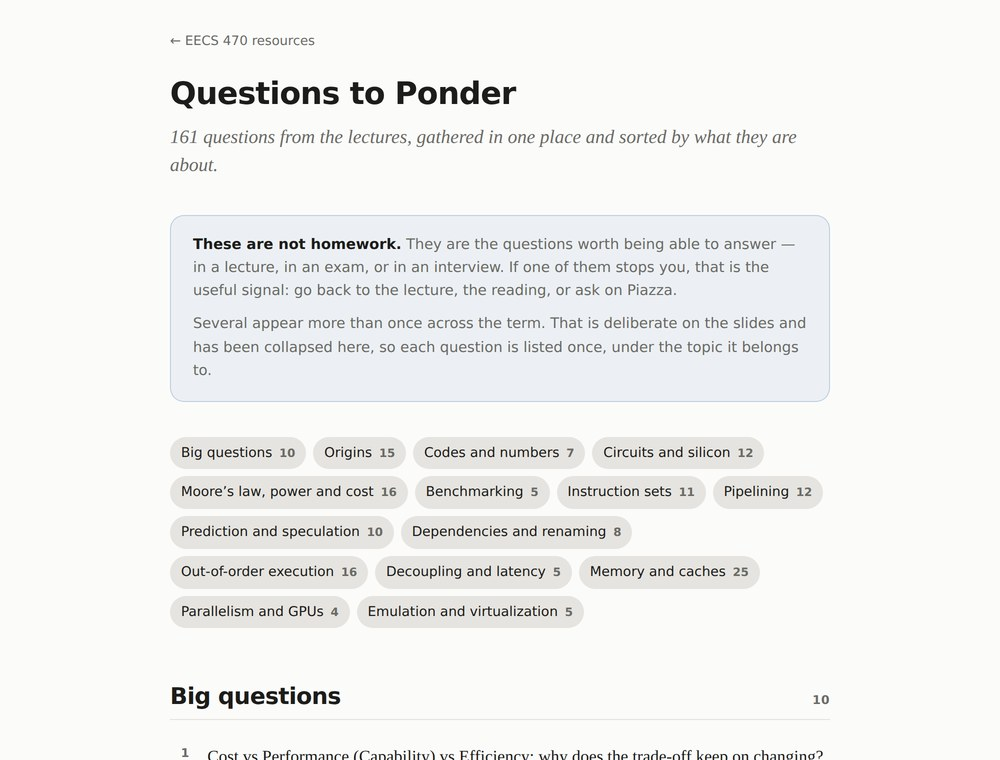
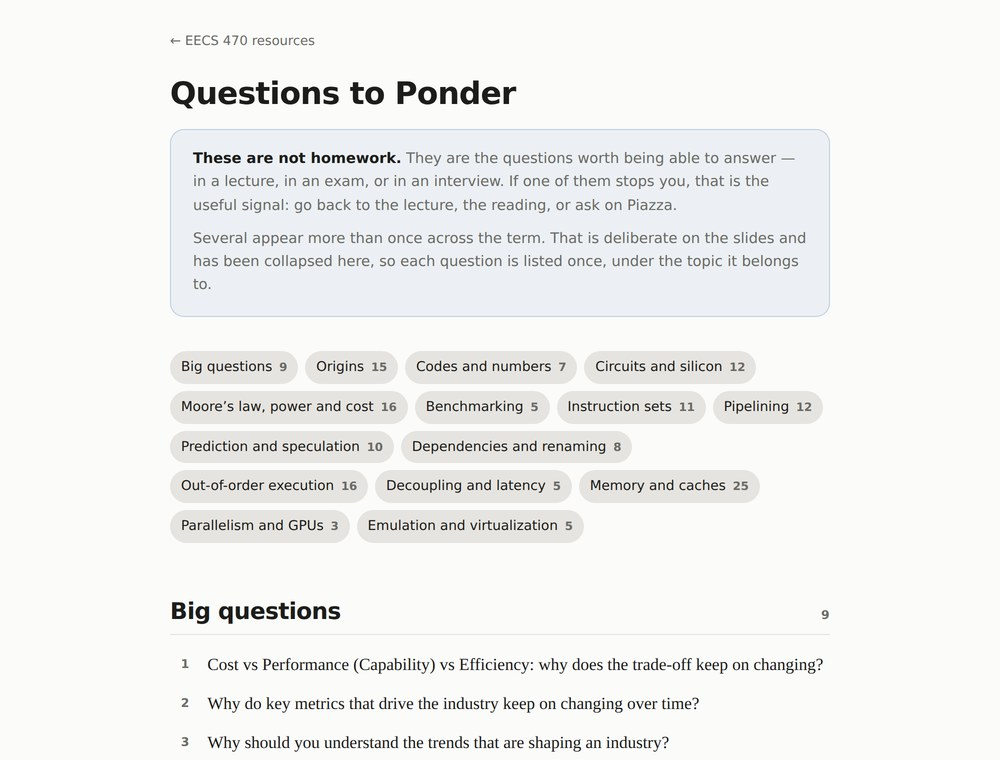
Update the site

Changed region(s): [[0.155, 0.1513, 0.837, 0.9382], [0.186, 0.9684, 0.837, 1.0], [0.806, 0.9079, 0.837, 0.9382]]

diff --git a/index.html b/index.html
@@ -909,15 +909,15 @@ a chip.</p></div></li></ul></section><section class="panel prose" data-tab="reso
   since covers are named <group>-<filename>. Covers live in Input/images/resources/ and are named
   <group>-<filename>.jpg, slugified (for a web link, <group>-<title>.jpg);
   run tools/make-covers.py to render them.
---><h2>Class</h2><ul class="gallery"><li><a class="shot tile" href="https://leccap.engin.umich.edu/leccap/site/ej9jgxg6gshpb5idj43">Lecture Recordings</a><div class="doc"><h3><a href="https://leccap.engin.umich.edu/leccap/site/ej9jgxg6gshpb5idj43">LECCAP</a></h3><p>CAEN’s excellent Lecture Recording service</p></div></li><li><a class="shot" href="questions-to-ponder.html"><img class="cover" width="1000" height="760" src="images/resources/class-questions-to-ponder.jpg" alt="" loading="lazy"></a><div class="doc"><h3><a href="questions-to-ponder.html">Questions to Ponder</a></h3><p>Every question raised in the lectures, gathered in one place and sorted by
-topic. Not homework — the questions worth being able to answer. If one of them
-stops you, that is the signal to go back to the lecture or the reading.</p></div></li><li><a class="shot" href="https://piazza.com/umich/fall2026/eecs470fa2026/home"><img class="cover logo" width="352" height="92" src="images/resources/class-piazza.png" alt="" loading="lazy"></a><div class="doc"><h3><a href="https://piazza.com/umich/fall2026/eecs470fa2026/home">Piazza</a></h3><p>Q&amp;A forum. Answer as many questions as you can!</p></div></li><li><a class="shot" href="https://app.infinisym.com"><img class="cover logo" width="200" height="200" src="images/resources/class-infinisym.png" alt="" loading="lazy"></a><div class="doc"><h3><a href="https://app.infinisym.com">infiniSym</a></h3><p>The check-in and polls app. It&rsquo;s a Progressive Web App (PWA): works in
+--><h2>Class</h2><ul class="gallery"><li><a class="shot tile" href="https://leccap.engin.umich.edu/leccap/site/ej9jgxg6gshpb5idj43">Lecture Recordings</a><div class="doc"><h3><a href="https://leccap.engin.umich.edu/leccap/site/ej9jgxg6gshpb5idj43">LECCAP</a></h3><p>CAEN’s excellent Lecture Recording service</p></div></li><li><a class="shot" href="https://piazza.com/umich/fall2026/eecs470fa2026/home"><img class="cover logo" width="352" height="92" src="images/resources/class-piazza.png" alt="" loading="lazy"></a><div class="doc"><h3><a href="https://piazza.com/umich/fall2026/eecs470fa2026/home">Piazza</a></h3><p>Q&amp;A forum. Answer as many questions as you can!</p></div></li><li><a class="shot" href="https://app.infinisym.com"><img class="cover logo" width="200" height="200" src="images/resources/class-infinisym.png" alt="" loading="lazy"></a><div class="doc"><h3><a href="https://app.infinisym.com">infiniSym</a></h3><p>The check-in and polls app. It&rsquo;s a Progressive Web App (PWA): works in
 the browser but if you download and save it to your mobile, you will not
 need to reauthenticate as much. Unfortunately Apple prefers apps in
 their App Store, so the experience isn&rsquo;t as smooth as it should be.</p></div></li><li><a class="shot" href="https://drive.google.com/drive/folders/1QmnMa3SE0dt_vrG9DG1hQhDYNfXGlomq"><img class="cover logo" width="600" height="556" src="images/resources/class-eecs470-web-um-auth-access.png" alt="" loading="lazy"></a><div class="doc"><h3><a href="https://drive.google.com/drive/folders/1QmnMa3SE0dt_vrG9DG1hQhDYNfXGlomq">EECS470 web (UM auth access)</a></h3><p>The Google Drive folder behind every link on this site — materials,
 papers and resources in one place. Sign in with your U-M account.</p></div></li><li><a class="shot" href="https://ebookcentral-proquest-com.proxy.lib.umich.edu/lib/umichigan/detail.action?pq-origsite=primo&docID=787253"><img class="cover" width="284" height="350" src="images/resources/class-hennessy-patterson-computer-architecture-a-quantitative-approach-5th-edition.jpg" alt="" loading="lazy"></a><div class="doc"><h3><a href="https://ebookcentral-proquest-com.proxy.lib.umich.edu/lib/umichigan/detail.action?pq-origsite=primo&docID=787253">Hennessy &amp; Patterson — Computer Architecture: A Quantitative Approach, 5th Edition</a></h3><p>The course textbook, read online through the U-M Library&rsquo;s ProQuest
 Ebook Central subscription. Sign in with your U-M account when the
-library proxy asks.</p></div></li></ul><h2>Review</h2><ul class="gallery"><li><a class="shot" href="https://www.youtube.com/watch?v=oRBS70J2Poo"><img class="cover" width="700" height="393" src="images/resources/review-alan-turing-s-machines.jpg" alt="" loading="lazy"></a><div class="doc"><h3><a href="https://www.youtube.com/watch?v=oRBS70J2Poo">Alan Turing’s Machines</a></h3><p>A BBC schools programme from 1966: what are the ultimate limits of what a
+library proxy asks.</p></div></li><li><a class="shot" href="questions-to-ponder.html"><img class="cover" width="1000" height="760" src="images/resources/class-questions-to-ponder.jpg" alt="" loading="lazy"></a><div class="doc"><h3><a href="questions-to-ponder.html">Questions to Ponder</a></h3><p>Every question raised in the lectures, gathered in one place and sorted by
+topic. Not homework — the questions worth being able to answer. If one of them
+stops you, that is the signal to go back to the lecture or the reading.</p></div></li></ul><h2>Review</h2><ul class="gallery"><li><a class="shot" href="https://www.youtube.com/watch?v=oRBS70J2Poo"><img class="cover" width="700" height="393" src="images/resources/review-alan-turing-s-machines.jpg" alt="" loading="lazy"></a><div class="doc"><h3><a href="https://www.youtube.com/watch?v=oRBS70J2Poo">Alan Turing’s Machines</a></h3><p>A BBC schools programme from 1966: what are the ultimate limits of what a
 computer can do? Alan Turing answered that in 1936, years before any
 computer ran. His Universal Turing Machine — one fixed machine that reads
 a description of any other and carries out its work — is the founding
@@ -1053,7 +1053,7 @@ listen than read.</p></div></li></ul></section>
 <footer id="foot"></footer>
 </div>
 <script>
-const META = {"tz": "America/Detroit", "default": "schedule", "generated": "Sep 8, 2026 at 4:25 PM"};
+const META = {"tz": "America/Detroit", "default": "schedule", "generated": "Sep 8, 2026 at 4:28 PM"};
 const MO=["Jan","Feb","Mar","Apr","May","Jun","Jul","Aug","Sep","Oct","Nov","Dec"];
 
 /* The page is static; only this block is time-dependent, and it runs in the

diff --git a/questions-to-ponder.html b/questions-to-ponder.html
@@ -181,8 +181,6 @@ a.back:hover{color:var(--accent)}
 /* Page-specific. A long list of questions wants to be scanned before it is
    read, so the sections announce their size and the index at the top is a real
    index — 161 items is too many to page through hoping to land somewhere. */
-.prose .lede{font-size:19px;line-height:1.5;color:var(--muted);
- margin:-.3em 0 1.8em;font-style:italic}
 .prose .note{background:var(--lens-fill);border:1px solid var(--lens-line);
  border-radius:14px;padding:18px 22px;margin:0 0 2.4em;
  font-family:ui-sans-serif,-apple-system,system-ui,sans-serif;
@@ -211,9 +209,8 @@ a.back:hover{color:var(--accent)}
 /* Numbered so a question can be pointed at in class — "number 7 in caches". */
 .prose ol.qs{margin:0 0 1em;padding-left:0;list-style:none;counter-reset:q}
 .prose ol.qs li{counter-increment:q;position:relative;
- padding:.42em 0 .42em 2.2em;margin:0;border-bottom:1px solid var(--line)}
-.prose ol.qs li:last-child{border-bottom:0}
-.prose ol.qs li::before{content:counter(q);position:absolute;left:0;top:.55em;
+ padding:0 0 0 2.2em;margin:0 0 .62em}
+.prose ol.qs li::before{content:counter(q);position:absolute;left:0;top:.28em;
  font-family:ui-sans-serif,-apple-system,system-ui,sans-serif;font-size:12px;
  font-weight:680;color:var(--muted);width:1.6em;text-align:right}
 
@@ -224,8 +221,6 @@ a.back:hover{color:var(--accent)}
 </style>
 
 <h1>Questions to Ponder</h1>
-<p class="lede">161 questions from the lectures, gathered in one place and
-sorted by what they are about.</p>
 
 <div class="note">
   <p><strong>These are not homework.</strong> They are the questions worth being
@@ -239,7 +234,7 @@ sorted by what they are about.</p>
 
 <nav class="toc" aria-label="Sections">
 
-  <a href="#big-questions">Big questions <span>10</span></a>
+  <a href="#big-questions">Big questions <span>9</span></a>
   <a href="#origins">Origins <span>15</span></a>
   <a href="#codes-and-numbers">Codes and numbers <span>7</span></a>
   <a href="#circuits-and-silicon">Circuits and silicon <span>12</span></a>
@@ -252,15 +247,14 @@ sorted by what they are about.</p>
   <a href="#out-of-order-execution">Out-of-order execution <span>16</span></a>
   <a href="#decoupling-and-latency">Decoupling and latency <span>5</span></a>
   <a href="#memory-and-caches">Memory and caches <span>25</span></a>
-  <a href="#parallelism-and-gpus">Parallelism and GPUs <span>4</span></a>
+  <a href="#parallelism-and-gpus">Parallelism and GPUs <span>3</span></a>
   <a href="#emulation-and-virtualization">Emulation and virtualization <span>5</span></a>
 </nav>
 
-<h2 id="big-questions">Big questions<span class="count">10</span></h2>
+<h2 id="big-questions">Big questions<span class="count">9</span></h2>
 <ol class="qs">
   <li>Cost vs Performance (Capability) vs Efficiency: why does the trade-off keep on changing?</li>
   <li>Why do key metrics that drive the industry keep on changing over time?</li>
-  <li>Why aren’t you reading the papers that I’m assigning you?</li>
   <li>Why should you understand the trends that are shaping an industry?</li>
   <li>How can Neumann &amp; Morgenstern’s observation on self-contradictory requirements be reconciled in practice?</li>
   <li>Who is the quote “I am sorry for the long letter. I didn’t have time to write a short one” attributed to? Who was he?</li>
@@ -460,10 +454,9 @@ sorted by what they are about.</p>
   <li>What is the point of prefetching? Should a prefetcher always prefetch into the cache?</li>
 </ol>
 
-<h2 id="parallelism-and-gpus">Parallelism and GPUs<span class="count">4</span></h2>
+<h2 id="parallelism-and-gpus">Parallelism and GPUs<span class="count">3</span></h2>
 <ol class="qs">
   <li>Why does heterogeneous, cache-coherent multiprocessing make sense?</li>
-  <li>What is a key feature of GPUs that is needed for training LLMs that most people missed on HW1?</li>
   <li>Why can’t NVIDIA use real unified memory on most of their GPUs?</li>
   <li>What does SIMD processing aim to accomplish? What are the trade-offs that a SIMD design incurs?</li>
 </ol>
